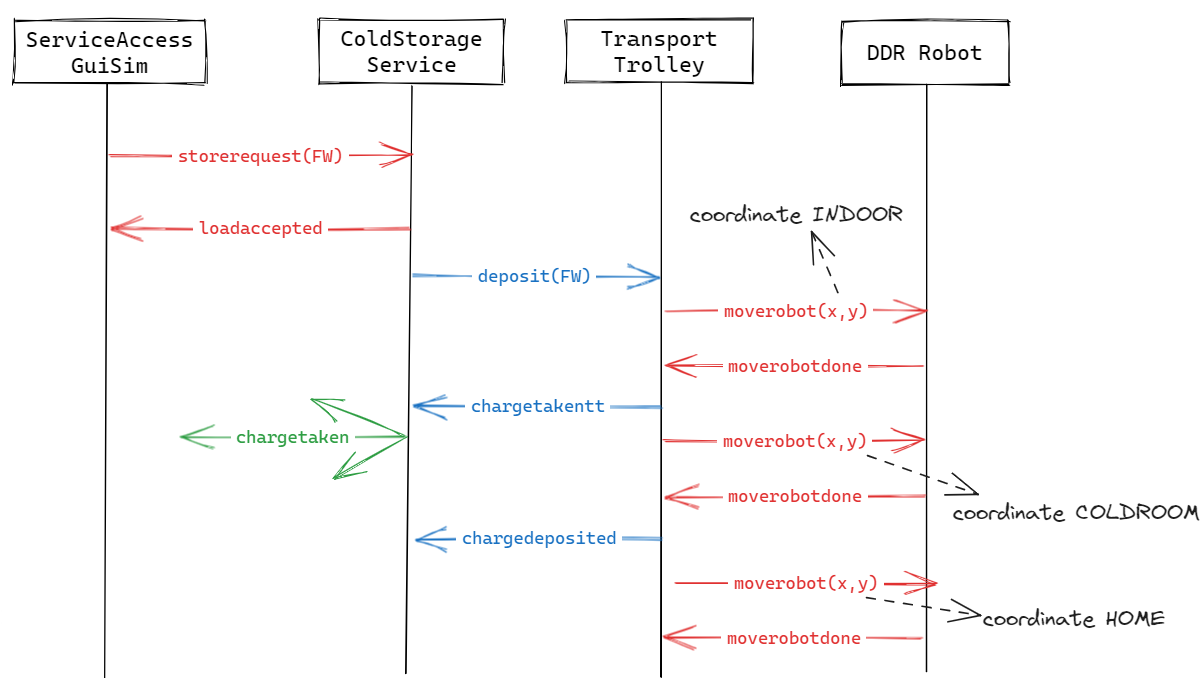
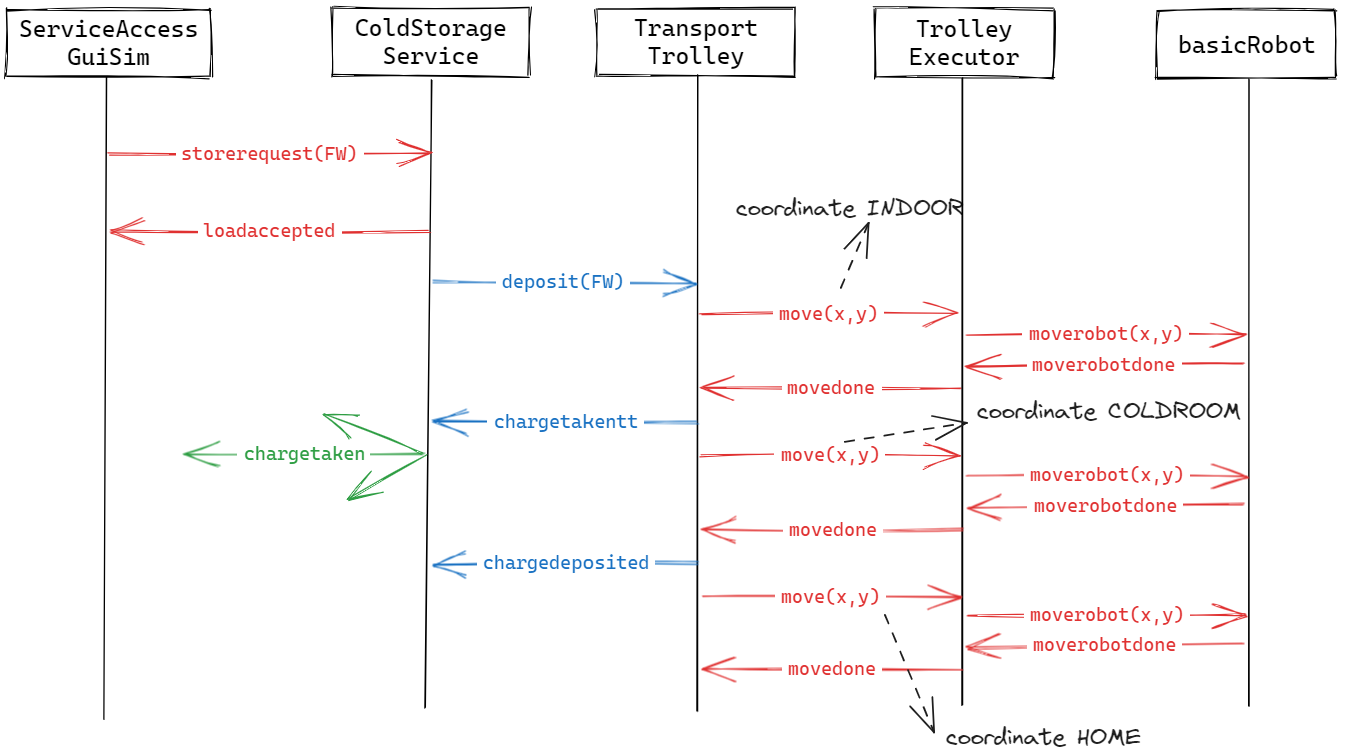
Sprint1V0: aggiunto trolleyexecutor nello Sprint

diff --git a/html/Sprint1/ColdStorageServiceSprint1V0.html b/html/Sprint1/ColdStorageServiceSprint1V0.html
@@ -44,7 +44,7 @@
         <li>Formulare il modello di <b>interazione</b> tra <b>ColdStorageService</b> e <b>TransportTrolley</b></li>
     </ol>
     <p>
-        L'interazione tra <i>TT</i> e <i>DDR Robot</i> è implicita per il funzionamento del core-bussìiness e verrà trattata nel corso del documento.
+        L'interazione tra <i>TT</i> e <i>DDR Robot</i> è implicita per il funzionamento del core-business e verrà trattata nel corso del documento.
     </p>
     </p>
 </div>
@@ -129,7 +129,7 @@
 
     <h3 id="messaggi">Messaggi</h3>
     <p>
-        Sono riportati i messaggi che realizzano le interazioni tra le varie entità (esclusi quelli tra <i>TT</i> e <i>BasicRobot</i>, che verranno analizzati in seguito).
+        Sono riportati i messaggi che realizzano le interazioni tra le varie entità (esclusi quelli tra <i>TT</i> e <i>basicRobot</i>, che verranno analizzati in seguito).
     </p>
     <table>
         <tr>
@@ -400,28 +400,40 @@
     </p>
     <p>
         All'interno del <i>ColdStorageService</i> opererà quindi l'entità <i>TransportTrolley</i>, occupandosi di tutte le funzionalità descritte in fase di <a href="#tt_analisi_requisiti">analisi dei requisiti</a>. Questa entità astratta dovrà comunicare con il "vero" robot per implementare il movimento e le azioni da compiere. <br>
-        Entra quindi in gioco l'attore Qak <b>BasicRobot</b>, fornito dal committente all'interno del progetto <code class="prettyprint">unibo.basicroboot23</code>. In questo modo, otteniamo anche un <b>ambiente virtuale</b> per simulare il comportamento del <i>DDR Robot</i> (WEnv/VirtualRobot).
+        Entra quindi in gioco l'attore Qak <b>basicRobot</b>, fornito dal committente all'interno del progetto <code class="prettyprint">unibo.basicroboot23</code>. In questo modo, otteniamo anche un <b>ambiente virtuale</b> per simulare il comportamento del <i>DDR Robot</i> (WEnv/VirtualRobot).
     </p>
 
+    <h5>TrolleyExecutor</h5>
+    <p>
+        A livello pratico, fino ad ora, abbiamo il <i>TransportTrolley</i> che deve comunicare con il <i>basicRobot</i>, ovvero l'attore Qak fornito dal committente. Si implica quindi una stretta correlazione tra il <i>TT</i> e la specifica interfaccia d'uso del robot, che sia virtuale o fisico. <br>
+        Abbiamo dunque pensato di introdurre l'attore <b>TrolleyExecutor</b>, il cui compito è quello di implementare lo spostamento comunicando con il <i>basicRobot</i>. Questo permette di astrarre il <i>TransportTrolley</i> dallo specifico protocollo usato dal <i>basicRobot</i>.
+    </p>
+    <p>
+        L'utilizzo di questo nuovo attore, ci permette anche una corretta separazione delle responsabilità. Infatti, il <i>TransportTrolley</i> dovrà occuparsi di gestire le richieste (con l'eventuale coda) e definire la logica di movimento, senza preoccuparsi di come questa viene implementata.
+    </p>
+    
     <h5 id="basicRobot_analisi">Basic robot</h5>
     <p>
-        L'attore Qak BasicRobot, contestualmente alla core-business di questo <i>Sprint</i>, si occuperà di implementare il movimento tra i vari <i>landmarks</i> della <a href="#servicearea_analisi_problema">Service Area</a>. <br>
-    Tra le entità da noi definite, il <i>TransportTrolley</i> è l'unico a comunicare con il suddetto attore; necessiterà di tre messaggi per attuare gli spostamenti:
+        L'attore Qak <i>basicRobot</i>, contestualmente alla core-business di questo <i>Sprint</i>, si occuperà di implementare il movimento tra i vari <i>landmarks</i> della <a href="#servicearea_analisi_problema">Service Area</a>. <br>
+    Tra le entità da noi definite, il <i>TrolleyExecutor</i> è l'unico a comunicare con il suddetto attore e necessiterà di tre messaggi per attuare gli spostamenti:
     <ul>
         <li><b>engage(OWNER, STEPTIME)</b>: in fase di inizializzazione, specificando al basicrobot chi lo sta usando (per ottenere l'accesso esclusivo) e qual è lo <i>STEPTIME</i></li>
-        <li><b>setpos(X,Y,D)</b>: al successo dell'engage il transportrolley invia questo messaggio al basicrobot per comunicare la posizione e direzione attuali del virtualrobot: il basicrobot manterr&agrave; internamento lo stato del robot basandosi su questa inizializzazione</li>
+        <li><b>setpos(X,Y,D)</b>: al successo dell'engage il transporttrolley invia questo messaggio al basicrobot per comunicare la posizione e direzione attuali del virtualrobot: il basicrobot manterr&agrave; internamento lo stato del robot basandosi su questa inizializzazione</li>
         <li><b>moverobot(TARGETX, TARGETY)</b>: per realizzare il movimento all'interno della <i>Service Area</i>.</li>
         <li><b>alarm()</b>: per interrompere il movimento del basicrobot.</li>
         <li><b>getrobotstate()</b>: per ottenere la posizine corrente del robot</li>
     </ul>
     </p>
+    <p>
+        Nella nostra astrazione tra <i>TransportTrolley</i>, <i>TrolleyExecutor</i> e <i>basicRobot</i> manteniamo la semantica <b>request-reply</b> per gli spostamenti, in quanto è necessario essere a conoscenza del successo o fallimento del movimento.
+    </p>
     <p class="nota">
-        Essendo che il <i>BasicRobot</i> necessità di coordinate per muoversi, il <i>TransportTrolley</i> deve conoscerle obbligatoriamente. In particolare, deve avere a disposizione il mapping <i>landmarks</i>-<i>coordinate</i>. 
+        Essendo che il <i>basicRobot</i> necessità di coordinate per muoversi, il <i>TransportTrolley</i> deve conoscerle obbligatoriamente. In particolare, deve avere a disposizione il mapping <i>landmarks</i>-<i>coordinate</i>, in modo da poter comunicare al <i>TrolleyExecutor</i> lo spostamento che dovrà implementare. 
     </p>
 
     <h3>Interazioni</h3>
     <p>
-        Riguardo alle interazioni viste in fase di <a href="#messaggi">analisi dei requisiti</a>, vengono aggiunte le interazioni presenti tra <b>TransportTrolley</b> e <b>DDR Robot</b> per realizzare il movimento vero e proprio (descritte nella sezione <a href="#basicRobot_analisi">Basic robot</a> subito sopra).
+        Riguardo alle interazioni viste in fase di <a href="#messaggi">analisi dei requisiti</a>, vengono aggiunte le interazioni presenti tra <b>TrolleyExecutor</b> e <b>DDR Robot</b> per realizzare il movimento vero e proprio (descritte nella sezione <a href="#basicRobot_analisi">Basic robot</a> subito sopra).
     </p>
 
     <h5>Diagrammi di sequenza</h5>
@@ -451,6 +463,9 @@
         E' possibile che, al momento dell'arrivo di una nuova richiesta, il <i>TransportTrolley</i> stia tornando in posizione <b>HOME</b>. Questo caso viene gestito dal <i>ColdStorageService</i> fermando il robot ed indirizzandolo nuovamente verso la <b>INDOOR</b>. Nel diagramma sottostante vediamo che il flusso riparte da quando il <i>TT</i> comunica al <i>CSS</i> di aver depositato il carico nella <b>ColdRoom</b>.
     </p>
     <img class="bigimglim" src="../images/sprint1/diag_sequenza_double_request.png" alt="Diagramma di sequenza con doppia richiesta core-business">
+    <p>
+        Vediamo che è il <i>TrolleyExecutor</i> ad occuparsi di controllare se il robot è in movimento (sta tornando in HOME), eventualmente fermandolo e implementando il nuovo spostamento comunicato dal <i>TT</i>.
+    </p>
 </p>   
 
 </div>
@@ -549,7 +564,7 @@
     <img class="imglim imgborder" src="../images/sprint1/coldstorageservice23arch.png"></img>
 
     <p>
-        Gli attori <b>coldstorageservice</b> e <b>transporttrolley</b>, in questa versione, risiedono nello stesso contesto.
+        Gli attori <b>coldstorageservice</b>, <b>transporttrolley</b> e <b>trolleyexecutor</b>, in questa versione, risiedono nello stesso contesto.
     </p>
 
     <h5>Attore coldstorageservice</h5>
@@ -573,43 +588,45 @@
     <h5>Attore transporttrolley</h5>
 
     <p>
-        Il <b>transporttrolley</b> &egrave; incaricato di comunicare al <i>basicrobot</i> dove dovr&agrave; spostare il VirtualRobot.
+        Il <b>transporttrolley</b> &egrave; incaricato di comunicare al <i>trolleyexecutor</i> dove dovr&agrave; spostare il robot.
+    </p>
+    <p>
+        Quando riceve un messaggio <b>deposit</b> l'attore comunica al <i>trolleyexecutor</i> di spostarsi a INDOOR tramite il messaggio <b>move(x, y)</b> (possibile in quanto il <i>TT</i> ha il mapping landmark-coordinate); successivamente comunica a coldstorageservice che il carico &egrave; stato prelevato con il messaggio <b>chargetakentt</b> per poi indicare al <i>trolleyexecutor</i> di implementare lo spostamento fino alla ColdRoom, comunicando infine l'avvenuto deposito con il messaggio <b>chargedeposited</b>.
     </p>
 
     <p>
-        All'inizializzazione viene ingaggiato il <i>basicrobot</i> tramite <b>engage</b>, viene poi usato <b>setrobotstate</b> per impostare la posizione iniziale a <i>(0,0)</i> direzione <i>d</i>. <br>
-        <img class="imglim" src="../images/sprint1/diag_sequenza_TT_DDR.png" alt="Diagramma di sequenza TT - DDR">
+        Durante uno qualsiasi degli stati che l'attore assume durante lo spostamento &egrave; in grado di gestire un messaggio <b>deposit</b> tramite interrupt, aggiungendolo a una coda per gestirlo quando possibile, ovvero dopo aver depositato il carico nella ColdRoom. In caso sia presenta una richiesta, viene realizzato il movimento verso INDOOR, altrimenti verso HOME.
+    </p>
+    <p>
+        Durante il ritorno in HOME, <i>transporttrolley</i> &egrave; in grado di ricevere nuove richieste di deposito: in tal caso comunica al <i>trolleyexecutor</i> di fermarsi e dirigersi in INDOOR, reiniziando il ciclo sopra descritto.
+    </p>
+
+    <h5>Attore trolleyexecutor</h5>
+
+    <p>
+        L'attore <i>trolleyexecutor</i> si occupa della comunicazione con l'attore <i>basicrobot</i>, implementando solamente degli spostamenti dalla posizione attuale alle coordinate <i>(x,y)</i> fornite da <i>transporttrolley</i>. <br>
+        In caso il robot si trovi in stato di movimento, quando arriva il messaggio <b>move</b> da parte del <i>transporttrolley</i>, il robot viene fermato e redirezionato verso le nuove coordinate.
+    </p>
+    <p>
+        All'inizializzazione viene ingaggiato il <i>basicrobot</i> tramite <b>engage</b>, usando poi <b>setrobotstate</b> per impostare posizione iniziale a <i>(0,0)</i> e direzione <i>d</i>. <br>
     
     </p>
-
-    <p>
-        Quando riceve un messaggio <b>deposit</b> l'attore comunica al <i>basicrobot</i> di spostarsi a INDOOR tramite il messaggio <b>moverobot</b>, successivamente comunica a coldstorageservice che il carico &egrave; stato prelevato con il messaggio <b>chargetakentt</b>, muove poi il basicrobot in ColdRoom, comunincando infine l'avvenuto deposito con il messaggio <b>chargedeposited</b>.
-    </p>
-
-    <p>
-        Durante uno qualsiasi degli stati che l'attore assume durante lo spostamento &egrave; in grado di gestire un messaggio <b>deposit</b> tramite interrupt, aggiungendolo a una coda per gestirlo quando possibile.
-    </p>
-
-    <p>
-        All'arrivo di una richiesta, il <i>TransportTrolley</i> indica al <i>basicrobot</i> di spostarsi in INDOOR, prelevare il carico e spostarsi in PORT per depositare il carico. Un volta raggiunto questo stato, viene valutata la presenza di richieste in coda: se ce ne sono il <i>TransportTrolley</i> indica al <i>basicrobot</i> di tornare in INDOOR, altrimenti in HOME.
-    </p>
-
-    <p>
-        Durante il ritorno in HOME il <i>TransportTrolley</i> &egrave; in grado di ricevere nuove richieste deposit, in tal caso comunica al <i>basicrobot</i> di fermarsi e dirigersi in INDOOR, reiniziando il ciclo sopra descritto.
-    </p>
+    <img class="imglim" src="../images/sprint1/diag_sequenza_TT_DDR.png" alt="Diagramma di sequenza TT - DDR">
 
     <h6>Coordinate</h6>
 
     <p>
-        Il <i>TransportTrolley</i> deve conoscere le coordinate dei landmark (PORT, INDOOR, HOME) per guidare il <i>basicrobot</i>. <br> 
+        L'attore <i>transporttrolley</i> deve conoscere le coordinate dei landmark (PORT, INDOOR, HOME) per guidare il <i>basicrobot</i>. <br> 
         A questo scopo &egrave; stata creata una apposita classe, <code class="docutils literal notranslate"><span class="pre">unibo.landmarks.LandmarkCoordinates</span></code> che mette a disposizione metodi per <i>caricare e gestire</i> la configurazione dei landmark generata dal <b>MapConfigurator</b>.
     </p>
 
     <p>
         Si riporta di seguito il diagramma UML della classe <code class="docutils literal notranslate"><span class="pre">LandmarkCoordinates</span></code>. <br>
-        <img class="imglim img-border" src="../images/sprint1/landmarksUML.png" alt="LandmarkCoordinates UML"><br>
+        <p>
+            <img class="imglim img-border" src="../images/sprint1/landmarksUML.png" alt="LandmarkCoordinates UML"><br>
+        </p>
         Si denota in particolare il metodo <code class="docutils literal notranslate"><span class="pre">getCoordinateClosestToFor(String, Pair&lt;Int, Int&gt;)</span></code> che permette di ottenere la coordinata pi&ugrave; vicina a una coordinata specificata per un certo landmark, specificato da una stringa che ne indica il nome. <br> 
-        Questo permette al <i>TransportTrolley</i> di comunicare al robot di spostarsi sempre alla coordinata pi&ugrave; vicina per il landmark di destinazione, essendo alcuni landmark costituiti da pi&ugrave; punti diversi.
+        Questo permette a <i>transporttrolley</i> di comunicare a <i>trolleyexecutor</i> di spostarsi sempre alla coordinata pi&ugrave; vicina per il landmark di destinazione, essendo alcuni landmark costituiti da pi&ugrave; punti diversi.
     </p>
     <h3 id="mapconfigurator_project">MapConfigurator</h3>
 
